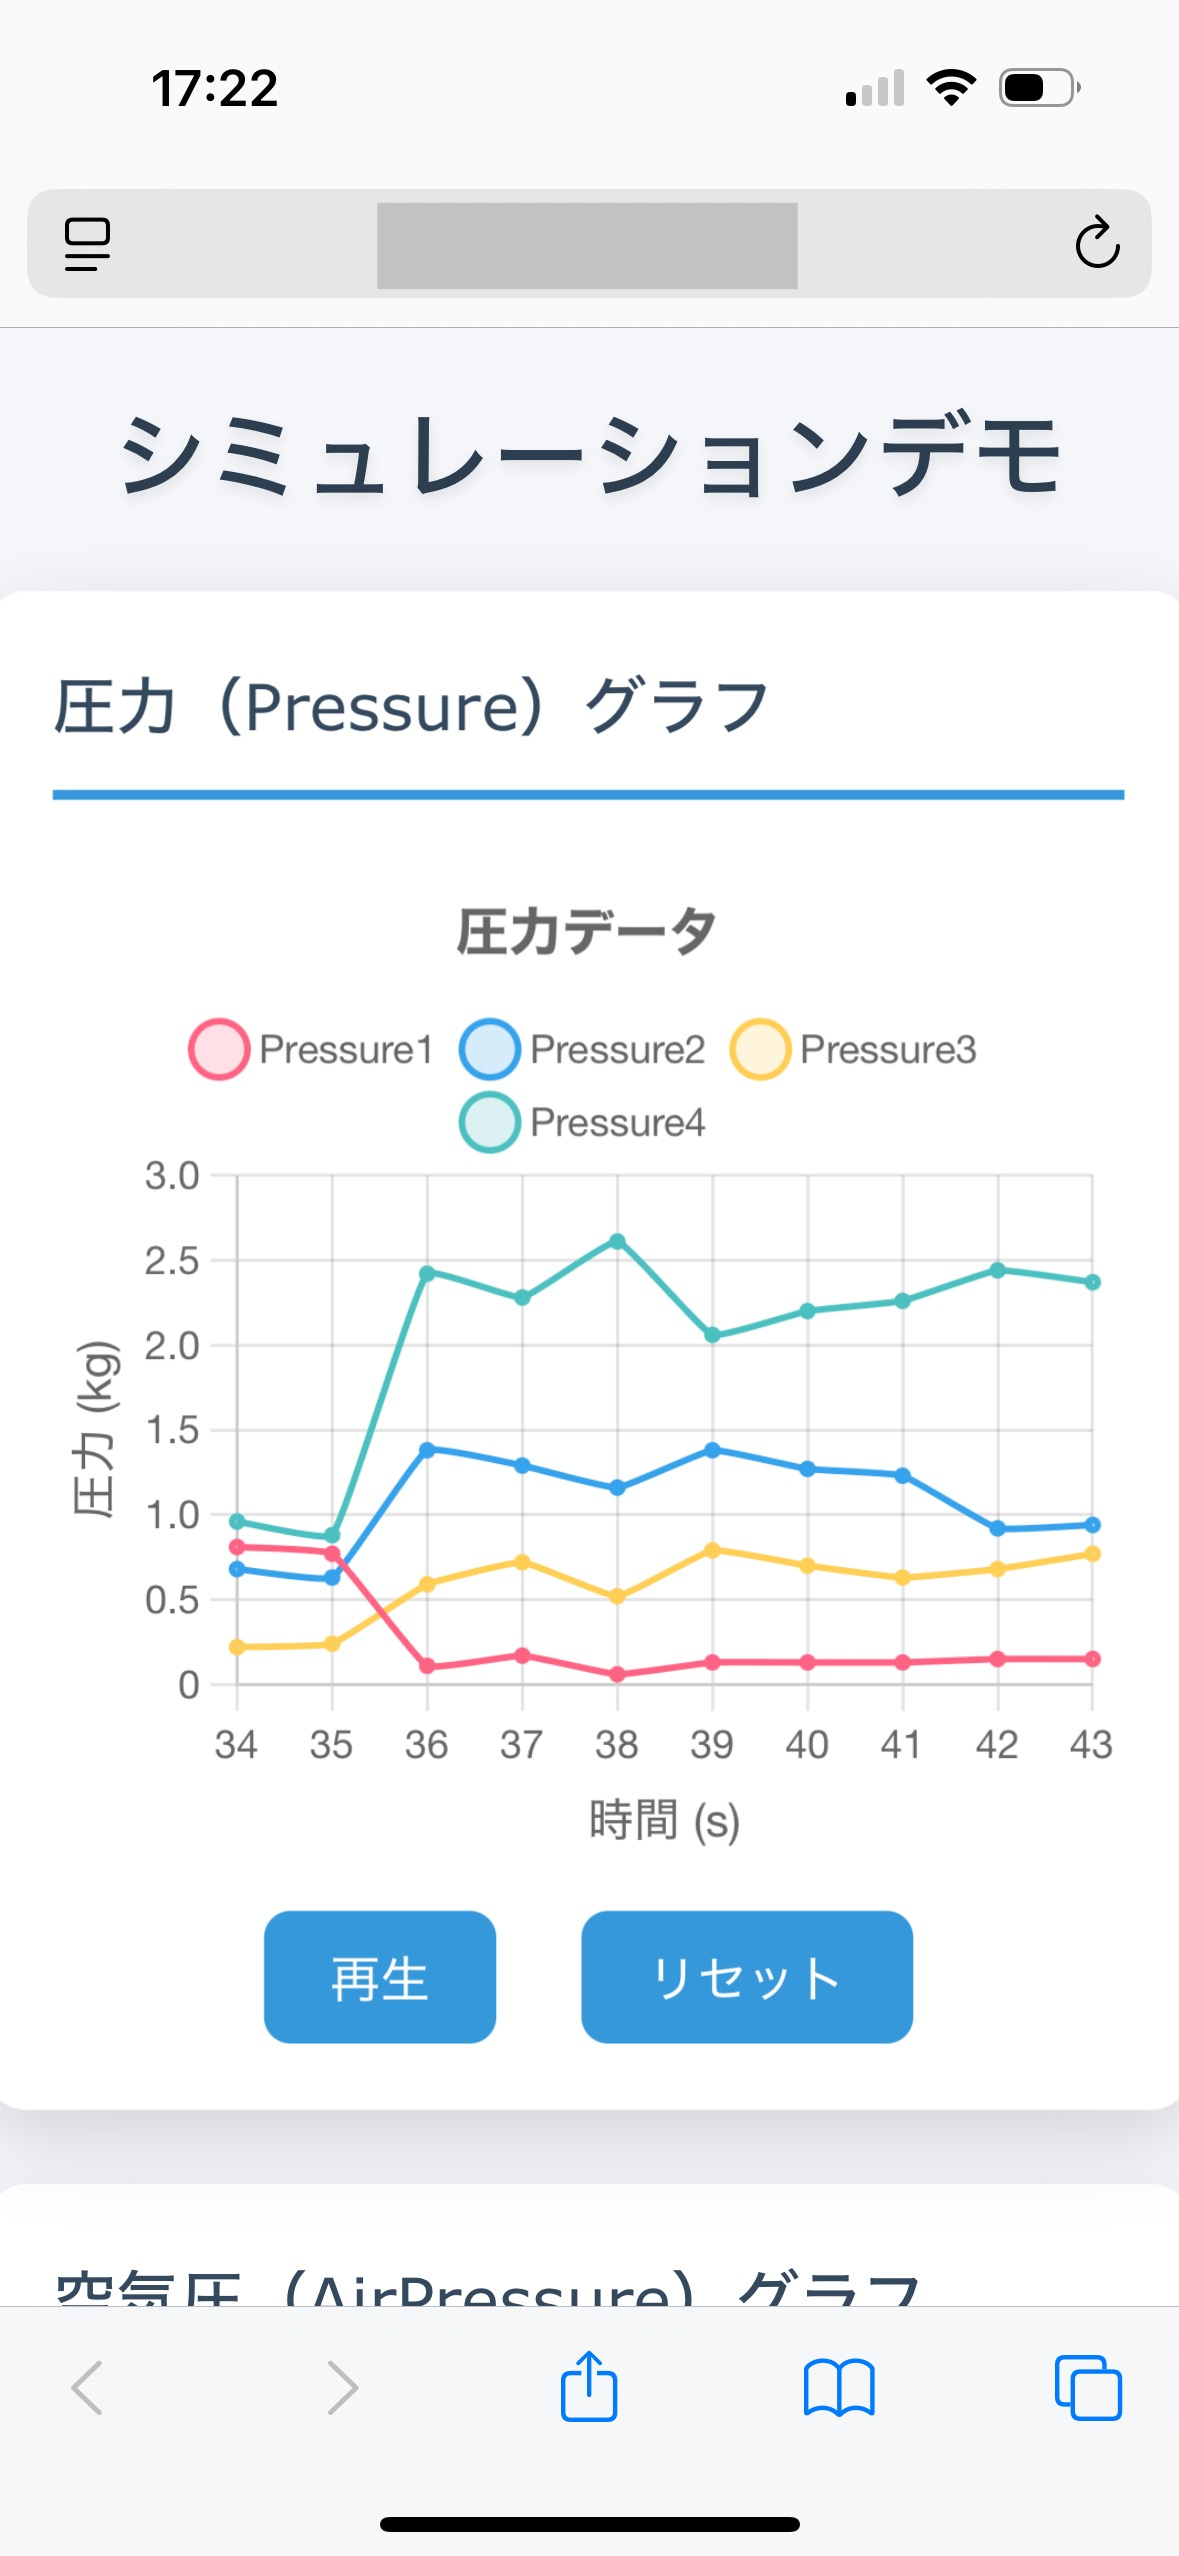
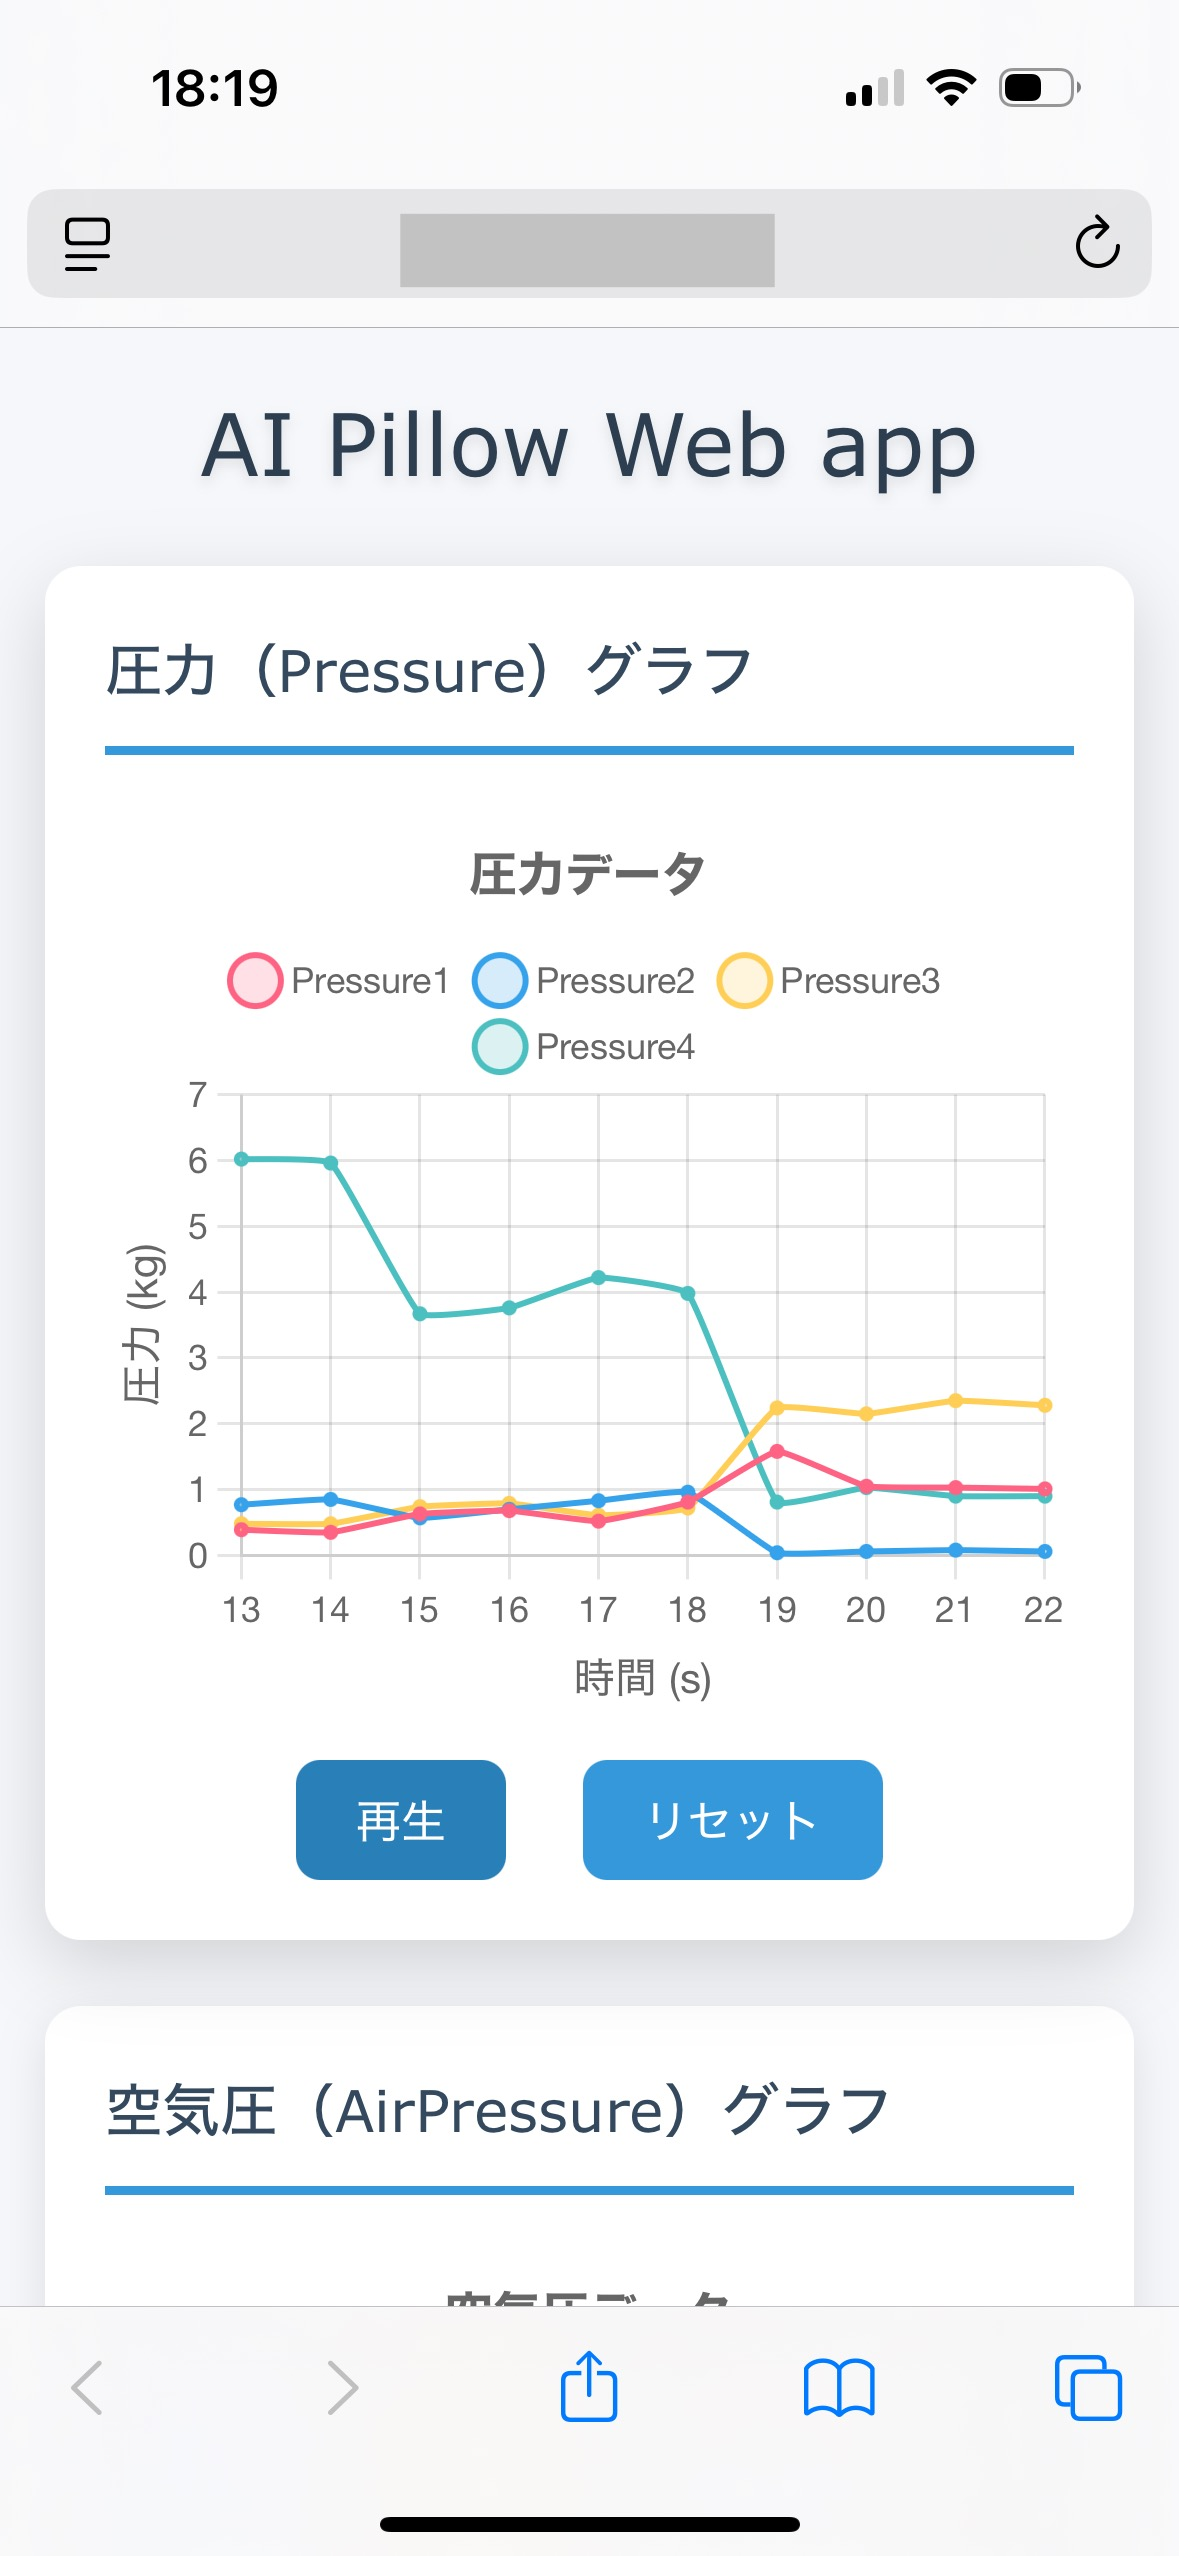
webサイトのタイトル変更

diff --git a/templates/index.html b/templates/index.html
@@ -4,7 +4,7 @@
 <head>
     <meta charset="UTF-8">
     <meta name="viewport" content="width=device-width, initial-scale=1.0">
-    <title>シミュレーションデモ</title>
+    <title>AI Pillow Web app</title>
     <script src="{{ url_for('static', path='js/chart.umd.js') }}"></script>
     <script src="{{ url_for('static', path='js/jquery.min.js') }}"></script>
     <link rel="stylesheet" href="{{ url_for('static', path='css/style.css') }}">
@@ -12,7 +12,7 @@
 
 <body>
 
-    <h1>シミュレーションデモ</h1>
+    <h1>AI Pillow Web app</h1>
 
     <div class="container">
         <div class="chart-container">
